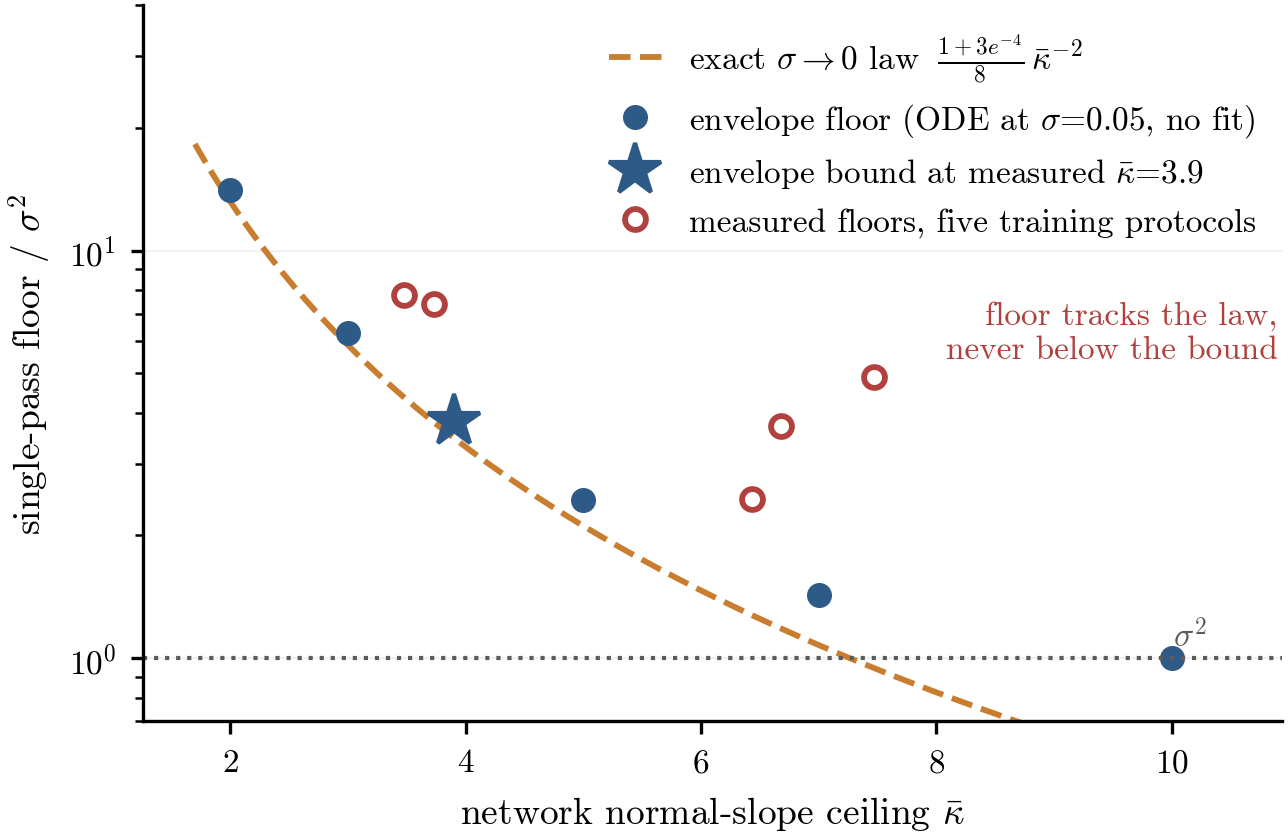
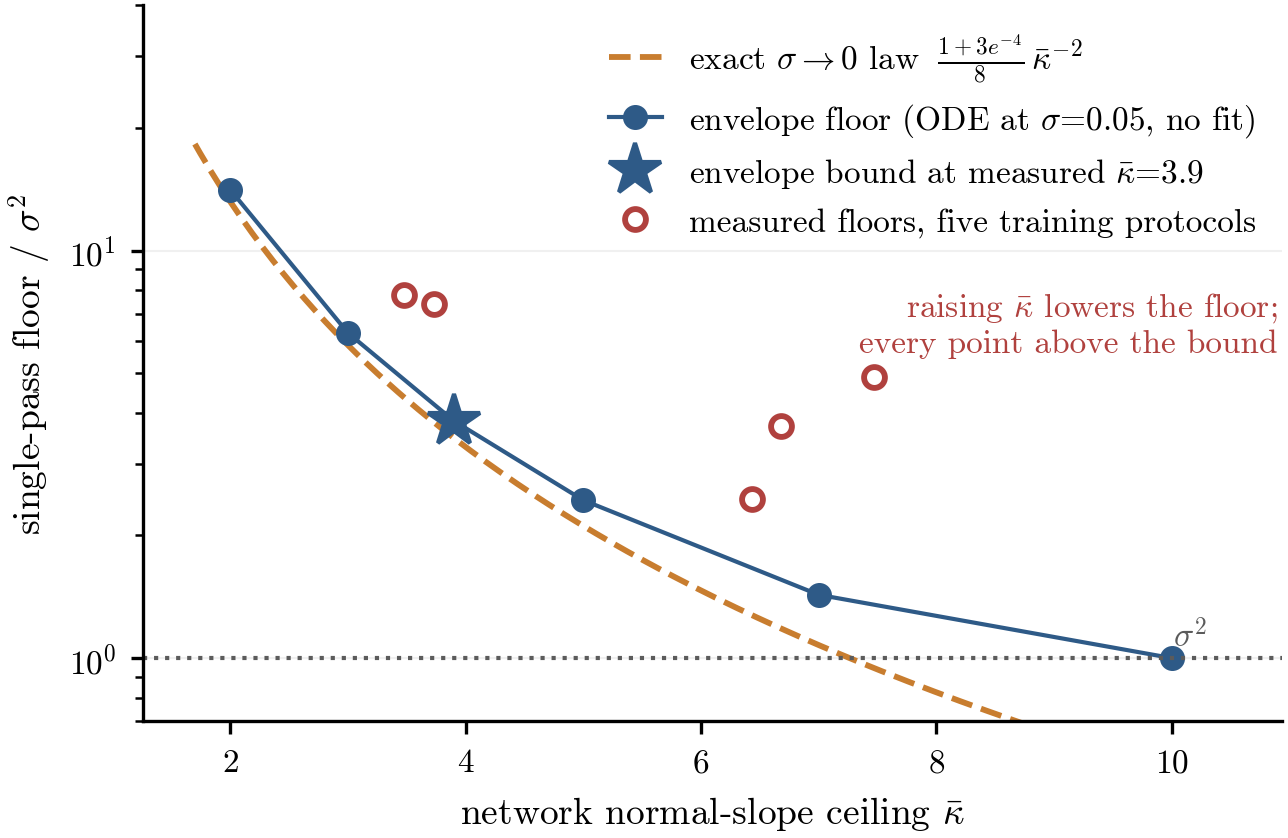
fig4 accuracy pass: draw the envelope floor as a connecting line so every measured floor is visibly above its bound; correct the interventional-test wording in figure/caption/table/README (floors fall group-wise into 2.5-4.9 with protocol scatter, not a clean 7.8->2.5 1/kbar^2 trace) — the load-bear

diff --git a/paper/main.tex b/paper/main.tex
@@ -532,9 +532,11 @@ to $-0.4\,\sigsq$, i.e.\ the nonlinear remainder beyond the two channels is smal
 prices the ensemble-deviation term that Lemma~\ref{lem:shield} controls only to first
 order). \textbf{Interventional test.} The law survives moving the ceiling: five
 training protocols ($t$-importance-sampling into the band, $4\times$ steps, a
-higher-frequency time embedding, and combinations) move $\kb$ from $3.5$ to $7.5$, and
-the measured floor falls from $7.8$ to $2.5\,\sigsq$, tracking the predicted
-$1/\kb^{2}$ ordering and never crossing the bound.
+higher-frequency time embedding, and combinations) move $\kb$ from $3.5$ to $7.5$; the
+measured floor drops from $7.4$--$7.8\,\sigsq$ at the two low-$\kb$ protocols into the
+$2.5$--$4.9\,\sigsq$ range at the three high-$\kb$ ones (a group-level fall with
+protocol-dependent scatter, not a clean $1/\kb^2$ trace), and --- the load-bearing
+statement --- every one of the five sits strictly above its own proven bound.
 
 \paragraph{What sets the ceiling (\emph{we observe}).} The interventions also identify
 the ceiling's origin. Raising the time-embedding frequency alone does nothing
@@ -554,16 +556,17 @@ remains, so anchoring is still the fix.
 \begin{figure}[t]
 \centering
 \includegraphics[width=0.7\linewidth]{figs/fig4_capacity_floor.pdf}
-\caption{\textbf{The capacity floor: predicted, measured, and moved.} Filled blue:
-finite-$\sigma$ variance-ODE envelope floor at $\sigma=0.05$ (no fit). Dashed: the
-exact $\sigma\to0$ law $\big((1+3e^{-4})/8\big)\kb^{-2}$ of Theorem~\ref{thm:floor}.
-Star: the envelope bound $3.8\sigsq$ at the standard pipeline's measured ceiling
-$\kb=3.9$ --- a proven lower bound that accounts for ${\sim}60\%$ of the directly
-measured single-pass floor; the measured anatomy of the remainder (profile sag,
-ensemble displacement) is in the text. Open circles: the interventional test --- five
-training protocols move the measured ceiling from $3.5$ to $7.5$ and the measured
-floor falls from $7.8$ to $2.5\,\sigsq$, tracking the law and never crossing the
-bound.}
+\caption{\textbf{The capacity floor: predicted, measured, and moved.} Blue line with
+markers: finite-$\sigma$ variance-ODE envelope floor at $\sigma=0.05$ (no fit).
+Dashed: the exact $\sigma\to0$ law $\big((1+3e^{-4})/8\big)\kb^{-2}$ of
+Theorem~\ref{thm:floor}. Star: the envelope bound $3.8\sigsq$ at the standard
+pipeline's measured ceiling $\kb=3.9$ --- a proven lower bound that accounts for
+${\sim}60\%$ of the directly measured single-pass floor; the measured anatomy of the
+remainder (profile sag, ensemble displacement) is in the text. Open circles: the
+interventional test --- five training protocols move the measured ceiling from $3.5$
+to $7.5$; the measured floor falls from ${\sim}7.6\,\sigsq$ (low $\kb$) into the
+$2.5$--$4.9\,\sigsq$ range (high $\kb$), with protocol scatter, and every point stays
+strictly above its bound.}
 \label{fig:floorlaw}
 \end{figure}
 
@@ -865,7 +868,7 @@ Pixel CIFAR-10, $G{=}8$ & unanchored & $22.8\pm1.2$ & 3 \\
  & anchored coverage / diversity & $1.00\times$ / $0.75\times$ & 3 \\
 \midrule
 Floor law & envelope bound at measured $\kb{=}3.9$ & $3.8$ (${\sim}60\%$ of measured $6.3$--$7.5$) & n/a \\
- & interventional test, $\kb\!:3.5\to7.5$ & floor $7.8\to2.5$, bound never crossed & 3 \\
+ & interventional test, $\kb\!:3.5\to7.5$ & floor $7.6\to\{2.5$--$4.9\}$, above bound & 3 \\
 \bottomrule
 \end{tabular}
 \end{table}

diff --git a/make_figures.py b/make_figures.py
@@ -132,7 +132,10 @@ try:
     C0 = (1 + 3 * np.exp(-4.0)) / 8  # exact sigma->0 constant (1+3e^-4)/8
     ax.plot(kk, (C0 / kk ** 2) / SIG2, "--", color=st.AMBER, lw=1.4,
             label="exact $\\sigma\\to0$ law $\\;\\frac{1+3e^{-4}}{8}\\,\\bar\\kappa^{-2}$")
-    ax.plot(kbar, phi, "o", color=st.BLUE, ms=5,
+    # envelope floor as a connecting line + markers, so "above the bound" is
+    # visually rigorous (every measured floor sits above this curve).
+    order = np.argsort(kbar)
+    ax.plot(kbar[order], phi[order], "-o", color=st.BLUE, ms=5, lw=1.0,
             label="envelope floor (ODE at $\\sigma$=0.05, no fit)")
     ax.plot([3.9], [3.82], "*", color=st.BLUE, ms=13, zorder=5,
             label="envelope bound at measured $\\bar\\kappa$=3.9")
@@ -140,8 +143,8 @@ try:
             label="measured floors, five training protocols")
     ax.axhline(1.0, color=st.GRAY, ls=":", lw=1.0)
     ax.text(10.3, 1.07, "$\\sigma^2$", color=st.GRAY, fontsize=8, ha="right")
-    ax.annotate("floor tracks the law,\nnever below the bound",
-                xy=(10.9, 6.3), fontsize=8, color=st.RED, ha="right", va="center")
+    ax.annotate("raising $\\bar\\kappa$ lowers the floor;\nevery point above the bound",
+                xy=(10.9, 6.6), fontsize=8, color=st.RED, ha="right", va="center")
     ax.set_yscale("log")
     ax.set_xlabel("network normal-slope ceiling $\\bar\\kappa$")
     ax.set_ylabel("single-pass floor / $\\sigma^2$")

diff --git a/README.md b/README.md
@@ -76,7 +76,7 @@ step 12 below.
 | 22 | `subcritical_lambda.py` | `subcritical_lambda.jsonl` (6) | **The critical fraction, located and exhibited.** λ\* = c∞/(1+c∞) ≈ 0.03–0.05 from the probe's saturated slope. λ=0.02 (at/below λ\*, fixed t₀=1e-4, G=25): v climbs monotonically to 69±16σ² at g24 (~10× its early value), no plateau in horizon. λ=0.25 control: plateau 16.5±2.2σ² by g≈5. Implied per-pass excess e²(w\*) = λ(v∞−σ²) = 3.9–5.0σ² across λ ∈ {0.25, 0.5, 2/3} — the law's e²/λ scaling across a 2.7× range of effective fraction. | — | ~38 min |
 | 23 | `residual_anatomy.py` | `residual_anatomy.jsonl` (13) | **The 1.5–2.0× residual, measured to death.** Per width (6 widths spanning the fixed point × 2 net seeds): v_env (envelope, the closure's model) → +C1 profile sag (κ̂(t) sags 0.3–0.7 below its own ceiling inside the band; +0.7σ² at data width, flips to mild overshoot at √w≥0.10) → +C2 **ensemble displacement** (slope regressed on the sampler's own fatter-than-p_t ensemble at every step; +2.6→+3.6σ², the DOMINANT channel) → v_full measured, with the nonlinear remainder C3 = −0.4 to −1.0σ² (small: affine-along-path is complete once the ensemble slope is used). **Iterating the measured map: fixed point 9.9σ² vs measured 10.8–13.2σ² — the 2.4× gap is now 1.1–1.3×**, protocol-level. Also corrects the old "zero-fit match": the direct single-pass floor is 6.3–7.5σ², of which the envelope explains ~60% (see row 2). | — | ~6 min |
 | 24 | `capacity_domains.py` | `capacity_domains.jsonl` | **κ̄(w) degradation is not a ring artifact.** Same protocol, three new geometries: flat segment (the flat-tube idealization made exact) 6.12−23.1√w (42% drop — needs NO curvature); sphere in R³ 4.65−12.8√w (30%); circle in R¹⁰, codim 9, 6.81−29.7√w (49%). Constants geometry-specific, phenomenon universal. Kills the "single data-domain" limitation. | — | ~4 min |
-| 25 | `ceiling_origin.py` | `ceiling_origin.jsonl` (5) | **What sets κ̄ — and the interventional test of the floor law.** Five training arms: baseline κ̄=3.7; t-importance-sampling into the band κ̄=6.7; 4× steps κ̄=6.4; higher-freq time embedding κ̄=3.5 (**does nothing** — not expressivity); both κ̄=7.5. The band holds <1% of the uniform t-measure (t<1e-3 never sampled) → the ceiling is **gradient starvation**, an optimization constant. Measured floors fall 7.8→2.5σ² as κ̄ rises, tracking 1/κ̄² and **never crossing the proven bound** — the law survives intervention. Band-weighted t-sampling is a practical 2–3× mitigation; it cannot reach σ² and the recursion still compounds, so anchoring stays necessary. | — | ~2 min |
+| 25 | `ceiling_origin.py` | `ceiling_origin.jsonl` (5) | **What sets κ̄ — and the interventional test of the floor law.** Five training arms: baseline κ̄=3.7; t-importance-sampling into the band κ̄=6.7; 4× steps κ̄=6.4; higher-freq time embedding κ̄=3.5 (**does nothing** — not expressivity); both κ̄=7.5. The band holds <1% of the uniform t-measure (t<1e-3 never sampled) → the ceiling is **gradient starvation**, an optimization constant. Measured floors fall from ~7.6σ² (two low-κ̄ protocols) into the 2.5–4.9σ² range (three high-κ̄ ones) — a group-level fall with protocol scatter, not a clean 1/κ̄² trace — every one **staying strictly above its proven bound** — the law survives intervention. Band-weighted t-sampling is a practical 2–3× mitigation; it cannot reach σ² and the recursion still compounds, so anchoring stays necessary. | — | ~2 min |
 
 ### Regenerate the figures
 ```